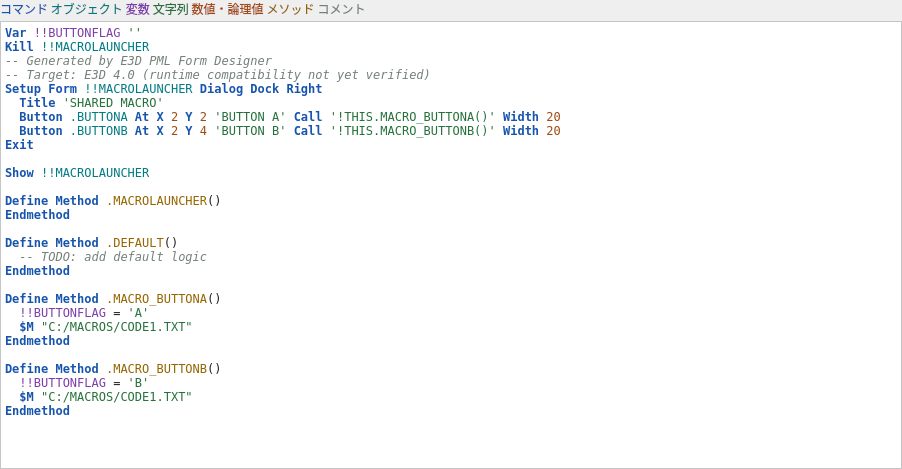
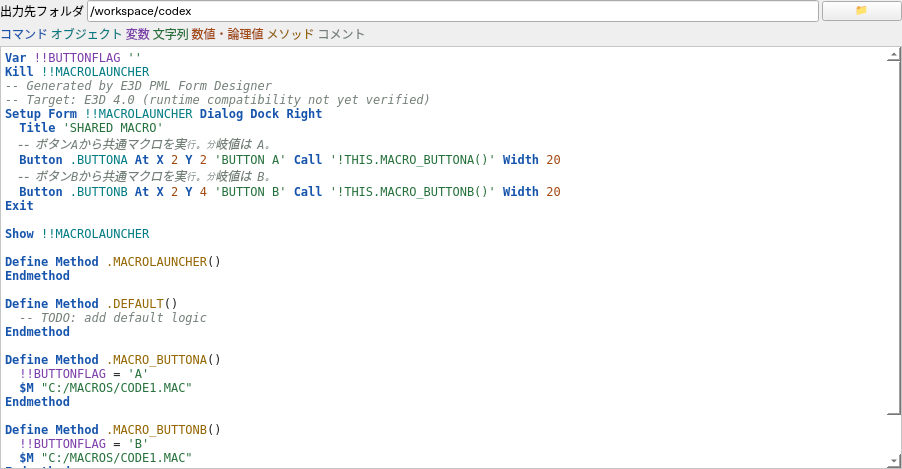
Export MAC text with persistent output folder and per-gadget comments

diff --git a/e3d_designer/app.py b/e3d_designer/app.py
@@ -319,8 +319,10 @@ class Scene(QGraphicsScene):
 
 
 class Window(QMainWindow):
-    def __init__(self):
+    def __init__(self, settings_path=None):
         super().__init__()
+        from .settings import Settings
+        self.settings=Settings(settings_path)
         self.form, self.path, self.selected = Form(), None, None
         self.project_key = uuid.uuid4().hex
         self.selected_menu = None
@@ -334,7 +336,7 @@ class Window(QMainWindow):
         self.setWindowTitle('E3D PML Form Designer — E3D 4.0 想定')
         toolbar = self.addToolBar('ファイル')
         for label, fn, shortcut in [('新規', self.new, 'Ctrl+N'), ('開く', self.open, 'Ctrl+O'),
-                ('保存', self.save, 'Ctrl+S'), ('PML 出力', self.export, 'Ctrl+E'),
+                ('保存', self.save, 'Ctrl+S'), ('MAC 出力', self.export, 'Ctrl+E'),
                 ('元に戻す', self.undo, 'Ctrl+Z'), ('やり直す', self.redo, 'Ctrl+Shift+Z'),
                 ('複製', self.duplicate, 'Ctrl+D'), ('削除', self.delete, None)]:
             a = QAction(label, self)
@@ -400,6 +402,12 @@ class Window(QMainWindow):
         self.code = QPlainTextEdit(); self.code.setReadOnly(True)
         self.code.setStyleSheet('font-family: monospace; font-size: 12px;')
         code_panel=QWidget();code_layout=QVBoxLayout(code_panel);code_layout.setContentsMargins(0,0,0,0);code_layout.setSpacing(3)
+        output_row=QHBoxLayout();output_row.addWidget(QLabel('出力先フォルダ'))
+        self.output_folder=QLineEdit(str(self.settings.output_folder));self.output_folder.editingFinished.connect(self.save_output_folder)
+        self.output_folder.setToolTip('初期値はアプリと同じフォルダ。変更すると settings.json に保存します。')
+        output_row.addWidget(self.output_folder,1)
+        browse_output=QPushButton('📁');browse_output.setToolTip('出力先フォルダを選択');browse_output.clicked.connect(self.choose_output_folder);output_row.addWidget(browse_output)
+        code_layout.addLayout(output_row)
         legend=QLabel('  '.join(f'<span style="color:{COLORS[kind]}">{label}</span>' for kind,label in (('command','コマンド'),('object','オブジェクト'),('variable','変数'),('string','文字列'),('number','数値・論理値'),('method','メソッド'),('comment','コメント'))))
         legend.setWordWrap(True);code_layout.addWidget(legend);code_layout.addWidget(self.code)
         middle.addWidget(code_panel); middle.setSizes([550, 230]); columns.addWidget(middle)
@@ -472,6 +480,9 @@ class Window(QMainWindow):
         self.prop_layout.addRow(self.macro_browse)
         self.macro_template=QPushButton('📄 分岐マクロのひな形を保存');self.macro_template.clicked.connect(self.save_macro_template)
         self.prop_layout.addRow(self.macro_template)
+        self.gadget_comment=QPlainTextEdit();self.gadget_comment.setFixedHeight(64)
+        self.gadget_comment.setPlaceholderText('部品の用途や注意点。出力時に -- コメントとして付けます。')
+        self.gadget_comment.textChanged.connect(self.update_gadget);self.prop_layout.addRow('部品のコメント',self.gadget_comment)
         self.browse_image = QPushButton('📁 画像ファイルを選択');self.browse_image.clicked.connect(self.choose_image)
         self.prop_layout.addRow(self.browse_image)
         self.fixed_font = QCheckBox('FIXCHARS：等幅フォント');self.fixed_font.toggled.connect(self.update_gadget)
@@ -556,6 +567,7 @@ class Window(QMainWindow):
             highlighter=PmlHighlighter(editor.document());editor.pml_highlighter=highlighter
             self.pml_highlighters.append(highlighter)
         self.refresh()
+        if self.settings.error:self.statusBar().showMessage('設定JSONを読み込めません: '+self.settings.error)
 
     @staticmethod
     def number(low, high):
@@ -607,9 +619,13 @@ class Window(QMainWindow):
         from .macro_actions import branch_template
         try:text=branch_template(self.form,self.form.gadgets[self.selected].macro_path)
         except ValueError as error:self.statusBar().showMessage(str(error));return
-        filename,_=QFileDialog.getSaveFileName(self,'分岐マクロのひな形を保存','code1.txt','マクロ (*.txt *.mac);;すべて (*)')
+        filename,_=QFileDialog.getSaveFileName(self,'分岐マクロのひな形を保存',str(self.settings.output_folder/'CODE1.mac'),'マクロ (*.mac)')
         if not filename:return
-        try:atomic_write(Path(filename),text.replace('\n','\r\n').encode('cp932'))
+        try:
+            data=text.replace('\n','\r\n').encode('cp932')
+            path=self.mac_output_path(filename)
+            if path is None:return
+            atomic_write(path,data)
         except (OSError,UnicodeError) as error:self.statusBar().showMessage(str(error));return
         self.statusBar().showMessage('分岐マクロのひな形を保存しました。各分岐の処理をファイルで編集してください。')
 
@@ -901,6 +917,7 @@ class Window(QMainWindow):
         if self.prop_layout.pending: self.prop_layout.reflow()
 
     def sync_extra_editors(self, gadget, rebuild=True):
+        if self.gadget_comment.toPlainText()!=gadget.comment:self.gadget_comment.setPlainText(gadget.comment)
         if rebuild:
             for editor, value in ((self.item_values,'\n'.join(gadget.item_values)), (self.view_code,gadget.view_code)):
                 if editor.toPlainText() != value: editor.setPlainText(value)
@@ -996,6 +1013,7 @@ class Window(QMainWindow):
     def update_gadget(self):
         if self.loading or self.selected is None: return
         self.checkpoint(); g = self.form.gadgets[self.selected]
+        g.comment = self.gadget_comment.toPlainText()
         old_action = g.action_mode
         old_mode = g.list_mode
         old_name = g.name
@@ -1329,17 +1347,44 @@ class Window(QMainWindow):
             QMessageBox.warning(self, '保存エラー', str(e)); return False
         self.path = path; self.dirty = False; self.refresh(); return True
 
+    def mac_output_path(self,filename):
+        selected=Path(filename);path=selected.with_suffix('.mac')
+        if path!=selected and path.exists():
+            answer=QMessageBox.question(self,'上書き確認',f'{path} は存在します。上書きしますか？',QMessageBox.Yes|QMessageBox.No,QMessageBox.No)
+            if answer!=QMessageBox.Yes:return None
+        return path
+
+    def save_output_folder(self):
+        text=self.output_folder.text().strip()
+        folder=Path(text).expanduser() if text else self.settings.app_directory
+        if not folder.is_absolute():folder=self.settings.app_directory/folder
+        try:self.settings.save_output_folder(folder)
+        except (OSError,ValueError) as error:
+            self.statusBar().showMessage('出力先の設定を保存できません: '+str(error));return False
+        self.output_folder.setText(str(self.settings.output_folder))
+        self.statusBar().showMessage('出力先フォルダを settings.json に保存しました。');return True
+
+    def choose_output_folder(self):
+        folder=QFileDialog.getExistingDirectory(self,'出力先フォルダを選択',self.output_folder.text())
+        if folder:self.output_folder.setText(folder);self.save_output_folder()
+
     def export(self):
         try:
             if self.variable_error: raise ValueError('変数欄を修正してください。')
             data = self.form.pml().replace('\n', '\r\n').encode('cp932')
         except (ValueError, UnicodeError) as e:
             QMessageBox.warning(self, '出力エラー', str(e)); return
-        name, _ = QFileDialog.getSaveFileName(self, 'PML を出力', self.form.name.lower() + '.pmlfrm', 'PML form (*.pmlfrm)')
+        folder=Path(self.output_folder.text().strip() or str(self.settings.app_directory)).expanduser()
+        if not folder.is_absolute():folder=self.settings.app_directory/folder
+        if not folder.is_dir():
+            QMessageBox.warning(self,'出力エラー','出力先には存在するフォルダを指定してください。');return
+        name, _ = QFileDialog.getSaveFileName(self, 'MAC テキストを出力', str(folder/(self.form.name.upper()+'.mac')), 'マクロ (*.mac)')
         if not name: return
-        try: atomic_write(Path(name), data)
+        path=self.mac_output_path(name)
+        if path is None:return
+        try: atomic_write(path, data)
         except OSError as e: QMessageBox.warning(self, '出力エラー', str(e)); return
-        self.statusBar().showMessage('PML 出力完了。E3D 4.0 で読み込みと動作を確認してください。')
+        self.statusBar().showMessage('MAC テキスト出力完了。E3D 4.0 で読み込みと動作を確認してください。')
 
     def closeEvent(self, event):
         if self.confirm_discard():

diff --git a/tests/test_output_settings_comments.py b/tests/test_output_settings_comments.py
@@ -1,0 +1,75 @@
+import os
+os.environ.setdefault('QT_QPA_PLATFORM','offscreen')
+import json
+import tempfile
+from pathlib import Path
+from unittest.mock import patch
+import unittest
+from PySide6.QtWidgets import QApplication,QMessageBox
+from e3d_designer.app import Window
+from e3d_designer.settings import Settings,application_directory
+from e3d_designer.model import Form,Gadget
+from e3d_designer.clipboard import clone_subtree
+
+
+class OutputSettingsTests(unittest.TestCase):
+    @classmethod
+    def setUpClass(cls):cls.app=QApplication.instance() or QApplication([])
+    def setUp(self):
+        self.temp=tempfile.TemporaryDirectory();self.folder=Path(self.temp.name)
+        self.window=Window(settings_path=self.folder/'settings.json')
+    def tearDown(self):
+        self.app.clipboard().clear();self.window.dirty=False;self.window.close();self.app.processEvents();self.temp.cleanup()
+
+    def test_application_directory_default_and_executable_location(self):
+        self.assertEqual(self.window.output_folder.text(),str(application_directory()))
+        self.assertFalse((self.folder/'settings.json').exists())
+        with patch('e3d_designer.settings.sys.frozen',True,create=True),patch('e3d_designer.settings.sys.executable',str(self.folder/'Designer.exe')):
+            self.assertEqual(application_directory(),self.folder)
+
+    def test_folder_persistence_restart_and_invalid_edit_preserves_json(self):
+        w=self.window;w.output_folder.setText(str(self.folder));self.assertTrue(w.save_output_folder())
+        data=(self.folder/'settings.json').read_bytes();self.assertEqual(json.loads(data)['output_folder'],str(self.folder))
+        self.assertEqual(Settings(self.folder/'settings.json').output_folder,self.folder)
+        other=Window(settings_path=self.folder/'settings.json')
+        self.assertEqual(other.output_folder.text(),str(self.folder));other.close()
+        w.output_folder.setText(str(self.folder/'missing'));self.assertFalse(w.save_output_folder())
+        self.assertEqual((self.folder/'settings.json').read_bytes(),data)
+        self.assertFalse(w.dirty)
+
+    def test_mac_output_default_folder_extension_and_overwrite_guard(self):
+        w=self.window;w.output_folder.setText(str(self.folder));w.save_output_folder()
+        with patch('e3d_designer.app.QFileDialog.getSaveFileName',return_value=(str(self.folder/'sample'),'')) as dialog:w.export()
+        self.assertEqual(Path(dialog.call_args.args[2]),self.folder/'USERFORM.mac')
+        self.assertEqual(dialog.call_args.args[3],'マクロ (*.mac)')
+        self.assertTrue((self.folder/'sample.mac').exists())
+        (self.folder/'other.mac').write_bytes(b'original')
+        with patch('e3d_designer.app.QFileDialog.getSaveFileName',return_value=(str(self.folder/'other.txt'),'')),patch('e3d_designer.app.QMessageBox.question',return_value=QMessageBox.No):w.export()
+        self.assertEqual((self.folder/'other.mac').read_bytes(),b'original')
+        with patch('e3d_designer.app.QFileDialog.getSaveFileName',return_value=('', '')):w.export()
+        self.assertFalse((self.folder/'other.txt').exists())
+
+    def test_malformed_settings_falls_back_with_error(self):
+        path=self.folder/'bad.json';path.write_text('not JSON')
+        settings=Settings(path);self.assertEqual(settings.output_folder,application_directory());self.assertTrue(settings.error)
+
+    def test_comments_edit_export_copy_and_undo(self):
+        w=self.window;w.add('button');w.gadget_comment.setPlainText('用途: ポンプの起動\n-- 注意: test Mixed Case')
+        self.assertEqual(w.form.gadgets[0].comment,'用途: ポンプの起動\n-- 注意: test Mixed Case')
+        code=w.form.pml()
+        self.assertIn('-- 用途: ポンプの起動\n  -- -- 注意: test Mixed Case\n  Button',code)
+        self.assertEqual(Form.loads(w.form.dumps()).gadgets[0].comment,w.form.gadgets[0].comment)
+        cloned,index=clone_subtree(w.form,w.form,0)
+        self.assertEqual(cloned.gadgets[index].comment,w.form.gadgets[0].comment)
+        w.undo();self.assertEqual(w.form.gadgets[0].comment,'')
+        w.redo();w.choose_row(0);self.assertIn('ポンプ',w.gadget_comment.toPlainText())
+        w.output_folder.setText(str(self.folder));w.save_output_folder()
+        with patch('e3d_designer.app.QFileDialog.getSaveFileName',return_value=(str(self.folder/'comment.mac'),'')):w.export()
+        self.assertIn('用途: ポンプの起動',(self.folder/'comment.mac').read_bytes().decode('cp932'))
+
+    def test_nested_comments_are_not_executable_and_nul_rejected(self):
+        form=Form(gadgets=[Gadget(kind='frame',name='frame',width=30,height=10,comment='Frame'),Gadget(name='run',parent='frame',comment='first\r\nSHOW !!other')])
+        code=form.pml()
+        self.assertIn('    -- SHOW !!other\n    Button .RUN',code)
+        form.gadgets[1].comment='\x00'
+        with self.assertRaises(ValueError):form.validate()

diff --git a/e3d_designer/model.py b/e3d_designer/model.py
@@ -31,6 +31,7 @@ class Gadget:
     kind: str = 'button'
     name: str = 'button1'
     label: str = 'Run'
+    comment: str = ''
     x: float = 2
     y: float = 1
     width: float = 14
@@ -249,7 +250,7 @@ class Form:
         if not isinstance(self.gadgets, list) or any(not isinstance(g,Gadget) for g in self.gadgets):
             raise ValueError('部品は配列で指定してください。')
         for g in self.gadgets:
-            for key in ('kind','name','label','value_type','initial','callback','command','background','orientation','frame_style','parent','body','layout_mode','path','halign','valign','xref','yref','xedge','yedge','xanchor','width_ref','selection_mode','combo_keyword','slider_orientation','off_value','on_value','view_type','channels','view_code','assembly','namespace','control_type','list_mode','table_method','display_mode','pixmap_path','popup_menu','database','button_role','action_mode','macro_path','macro_flag','macro_value'):
+            for key in ('kind','name','label','value_type','initial','callback','command','background','orientation','frame_style','parent','body','layout_mode','path','halign','valign','xref','yref','xedge','yedge','xanchor','width_ref','selection_mode','combo_keyword','slider_orientation','off_value','on_value','view_type','channels','view_code','assembly','namespace','control_type','list_mode','table_method','display_mode','pixmap_path','popup_menu','database','button_role','action_mode','macro_path','macro_flag','macro_value','comment'):
                 if not isinstance(getattr(g,key),str): raise ValueError(f'部品の {key} は文字列で指定してください。')
             for key in ('items','item_commands','item_values','headings','pane_lines'):
                 value = getattr(g,key)
@@ -436,6 +437,7 @@ class Form:
                 callbacks[key] = g.body
         methods = {self.name.lower(),'default',*callbacks}
         for g in self.gadgets:
+            if '\x00' in g.comment:raise ValueError('部品コメントに NUL は使用できません。')
             if g.action_mode not in ('CODE','MACRO'):raise ValueError('ボタンの処理方式が不正です。')
             if g.action_mode != 'MACRO':continue
             if g.kind != 'button' or g.button_role not in ('NORMAL','APPLY','RESET'):
@@ -545,6 +547,7 @@ class Form:
                           f'  member .{g.name}Control is {g.control_type}']
         def render(g, depth):
             indent = '  '*depth
+            for comment in g.comment.splitlines():lines.append(indent+'-- '+comment)
             position = f'AT X {n(g.x)} Y {n(g.y)}'
             if g.layout_mode == 'RELATIVE':
                 delta = lambda value: ('+' if value > 0 else '') + n(value) if value else ''

diff --git a/e3d_designer/settings.py b/e3d_designer/settings.py
@@ -1,0 +1,37 @@
+"""Application-local output folder preferences."""
+import json
+import os
+import sys
+import tempfile
+from pathlib import Path
+
+
+def application_directory():
+    return Path(sys.executable).resolve().parent if getattr(sys,'frozen',False) else Path(__file__).resolve().parent.parent
+
+
+class Settings:
+    def __init__(self,path=None):
+        self.app_directory=application_directory()
+        self.path=Path(path) if path is not None else self.app_directory/'settings.json'
+        self.output_folder=self.app_directory;self.error=''
+        if self.path.exists():
+            try:
+                data=json.loads(self.path.read_text(encoding='utf-8'))
+                if data.get('version')!=1 or not isinstance(data.get('output_folder'),str):raise ValueError('設定JSONの形式が不正です。')
+                folder=Path(data['output_folder'])
+                self.output_folder=folder if folder.is_absolute() else self.app_directory/folder
+            except (OSError,ValueError,TypeError,AttributeError) as error:self.error=str(error)
+
+    def save_output_folder(self,folder):
+        folder=Path(folder).expanduser().resolve()
+        if not folder.is_dir():raise ValueError('出力先には存在するフォルダを指定してください。')
+        data=json.dumps({'version':1,'output_folder':str(folder)},ensure_ascii=False,indent=2)+'\n'
+        temporary=None
+        try:
+            with tempfile.NamedTemporaryFile(dir=self.path.parent,delete=False) as handle:
+                temporary=Path(handle.name);handle.write(data.encode('utf-8'))
+            os.replace(temporary,self.path)
+        finally:
+            if temporary is not None:temporary.unlink(missing_ok=True)
+        self.output_folder=folder;self.error=''

diff --git a/tests/test_output_encoding.py b/tests/test_output_encoding.py
@@ -20,7 +20,7 @@ class OutputEncodingTests(unittest.TestCase):
         self.assertFalse(hasattr(self.window,'encoding'))
         self.window.form=Form(title='設備設定')
         with tempfile.TemporaryDirectory() as folder:
-            path=Path(folder)/'form.pmlfrm'
+            path=Path(folder)/'form.mac'
             with patch('e3d_designer.app.QFileDialog.getSaveFileName',return_value=(str(path),'')):self.window.export()
             data=path.read_bytes();self.assertIn('設備設定',data.decode('cp932'))
             self.assertIn(b'\r\n',data);self.assertNotIn(b'\n',data.replace(b'\r\n',b''))
@@ -32,7 +32,7 @@ class OutputEncodingTests(unittest.TestCase):
     def test_macro_template_cp932_and_encoding_failure_preserves_file(self):
         self.window.form=Form(variables={'flag':''},gadgets=[Gadget(label='実行',action_mode='MACRO',macro_path='C:/code1.txt',macro_flag='flag',macro_value='開始')]);self.window.selected=0;self.window.refresh()
         with tempfile.TemporaryDirectory() as folder:
-            path=Path(folder)/'code1.txt'
+            path=Path(folder)/'code1.mac'
             with patch('e3d_designer.app.QFileDialog.getSaveFileName',return_value=(str(path),'')):self.window.save_macro_template()
             data=path.read_bytes();self.assertIn('開始',data.decode('cp932'));self.assertIn('実行',data.decode('cp932'))
             self.assertIn(b'\r\n',data)

diff --git a/tests/test_macro_actions.py b/tests/test_macro_actions.py
@@ -78,6 +78,6 @@ class MacroGuiTests(unittest.TestCase):
         self.assertEqual(w.form.gadgets[0].macro_path,'C:/shared.txt')
         w.form.gadgets[1].macro_path='C:/shared.txt';w.refresh()
         with tempfile.TemporaryDirectory() as folder:
-            path=Path(folder)/'code1.txt'
+            path=Path(folder)/'code1.mac'
             with patch('e3d_designer.app.QFileDialog.getSaveFileName',return_value=(str(path),'')):w.save_macro_template()
             self.assertIn("Elseif (!!BUTTONFLAG Eq 'B') Then",path.read_text())

diff --git a/docs/current-ui/README.md b/docs/current-ui/README.md
@@ -4,7 +4,7 @@
 
 - [エディタ全体](editor.png)
 - [配置したフォームのプレビュー](equipmenttool-preview.png)
-- [対応する生成PMLコード](equipmenttool.pmlfrm)
+- [対応する生成PMLコード](equipmenttool.mac)
 - [編集用JSON](../../examples/equipmenttool.json)
 
 プレビューはエディタでの概略表示です。E3D実機の画面ではありません。
@@ -17,8 +17,10 @@
 
 ![初期値の設定](initial-defaults.png)
 
-[編集用JSON](../../examples/initial-defaults.json) / [生成PML](../../examples/initial-defaults.pmlfrm)
+[編集用JSON](../../examples/initial-defaults.json) / [生成PML](../../examples/initial-defaults.mac)
 
 ![外部マクロと分岐フラグの設定](macro-actions.png)
 
-[外部マクロを呼び出すサンプル](../../examples/macro-launcher.json) / [分岐マクロのひな形](../../examples/macro-code1.txt)
+[外部マクロを呼び出すサンプル](../../examples/macro-launcher.json) / [分岐マクロのひな形](../../examples/macro-code1.mac)
+
+![MAC出力先フォルダと部品コメント](output-comments.png)
